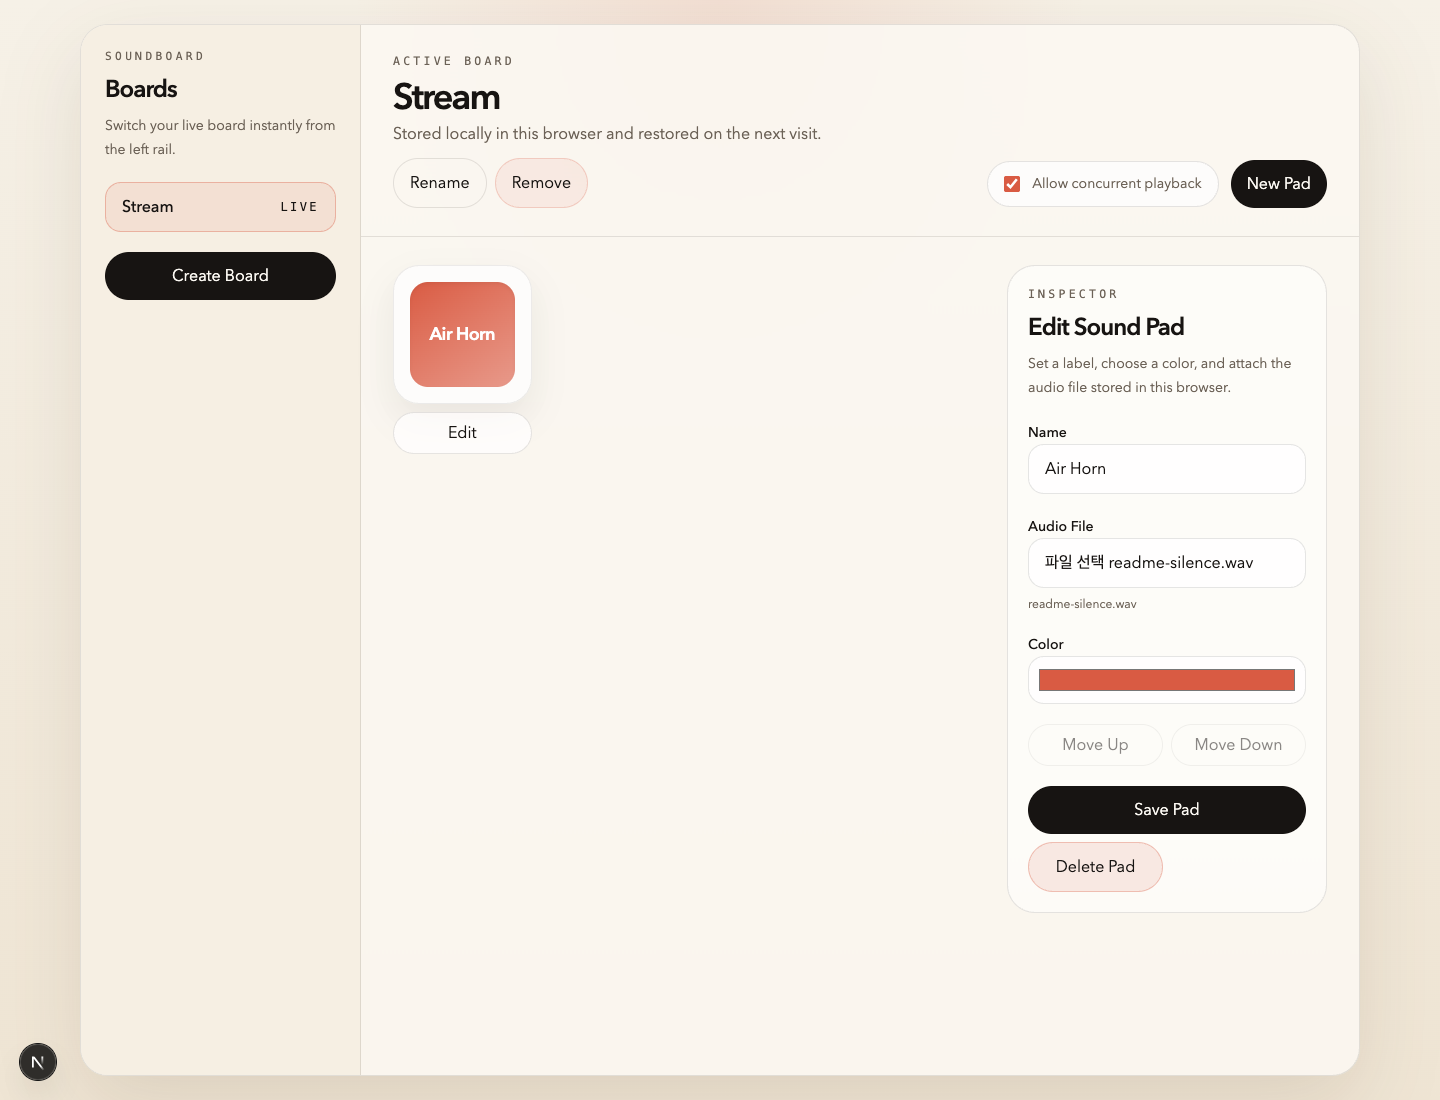
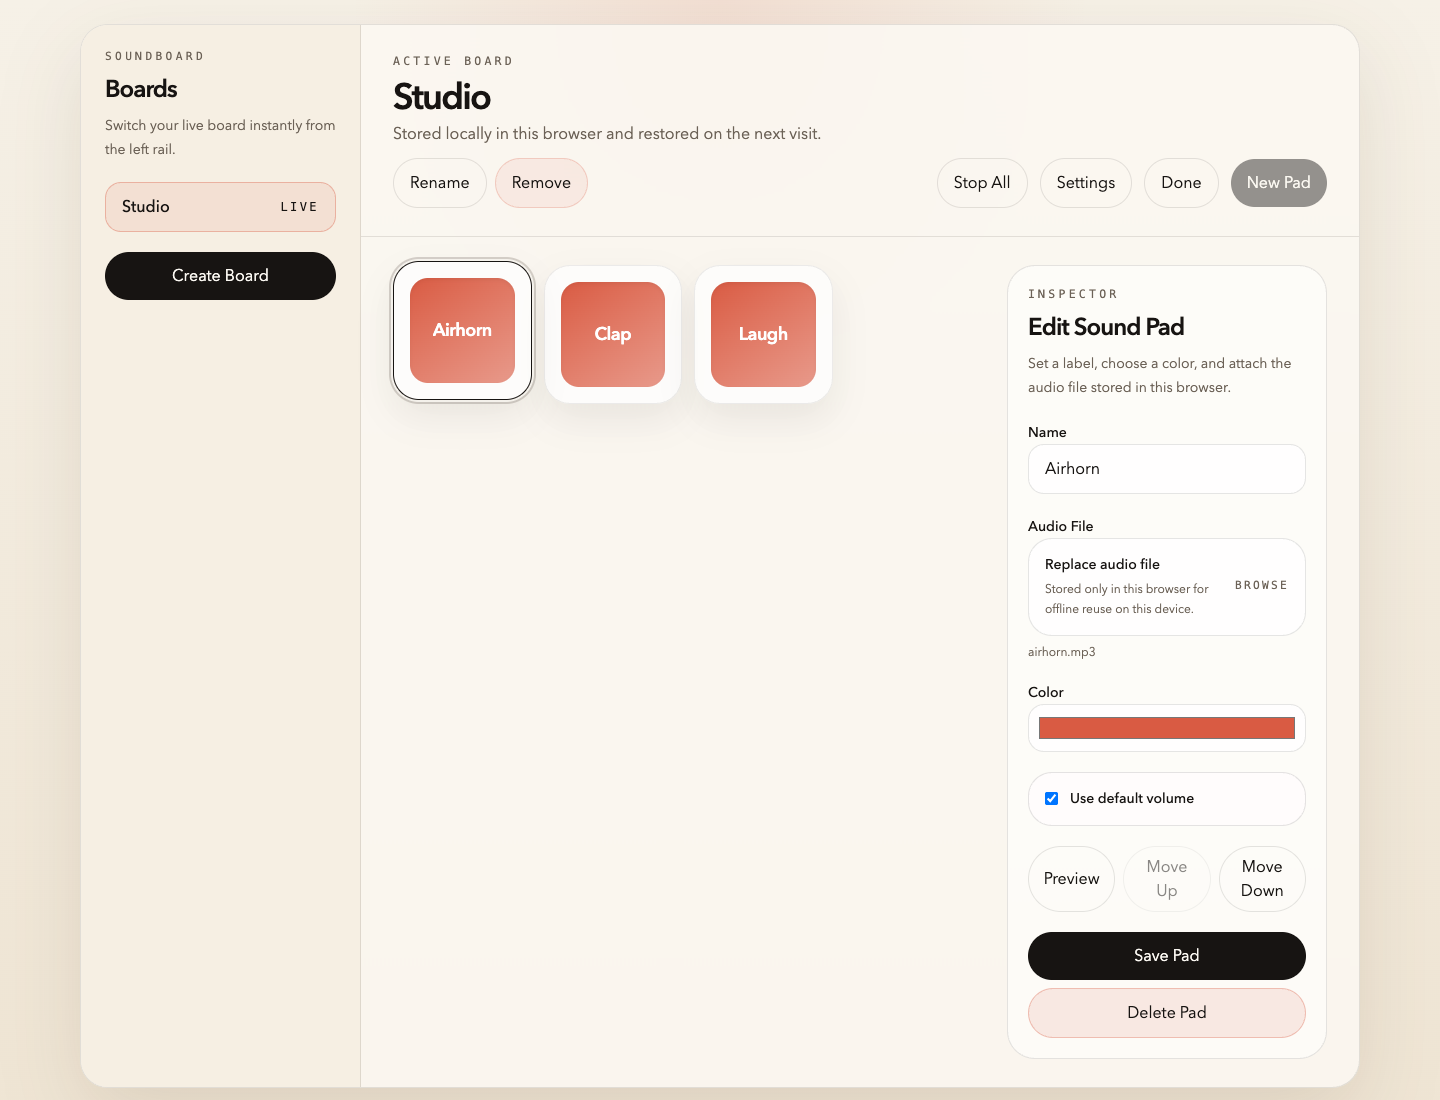
docs: refresh architecture and README assets

diff --git a/docs/architecture.md b/docs/architecture.md
@@ -13,12 +13,13 @@ The current application supports:
 - Multiple sound boards
 - Board creation, renaming, and deletion
 - Pad creation, editing, deletion, and manual reordering
-- Desktop corner-label editing affordance plus touch long-press editing
-- Dedicated settings dialog for playback controls
+- Dedicated `Manage Pads` mode for explicit pad selection, editing, and preview
+- Dedicated settings dialog for playback and audio output controls
 - Local audio file uploads stored in-browser
 - Optional concurrent playback
 - Default pad volume plus per-pad volume overrides
 - Optional `Stop All` control for active playback
+- Progressive-enhancement audio output routing and saved preferred device metadata
 - Restoration of the last active board and saved pads on reload
 
 The current scope intentionally excludes:
@@ -110,7 +111,7 @@ Current pad rules:
 
 ## UI Structure
 
-The current UI is organized into three main areas:
+The current UI is organized around four primary surfaces:
 
 - Left sidebar
   - board list
@@ -119,26 +120,33 @@ The current UI is organized into three main areas:
 - Main content area
   - active board header
   - board rename and delete actions
+  - `Stop All`, `Settings`, `Manage Pads`, and `New Pad` actions
   - sound pad grid
-  - desktop hover edit affordance in the pad corner
+  - playback-first pad presentation with selected-pad emphasis during management
 - Settings dialog
   - default pad volume
   - concurrent playback
   - `Stop All` visibility
   - audio output support state
+  - preferred output device selection and reset
 - Inspector panel
-  - pad creation and editing
+  - default create-pad workflow in normal play mode
+  - selection prompt when `Manage Pads` is active without a selected pad
+  - pad editing for the selected pad in `Manage Pads` mode
   - color and audio selection
   - pad-level volume override
-  - reorder and delete controls for existing pads
+  - preview, reorder, and delete controls for existing pads
 
-The inspector is always present. Unsaved pad edits are guarded before switching to another editing target.
+The main workspace keeps the inspector visible beside the grid. Unsaved pad edits are guarded before switching boards, changing modes, or targeting another pad.
 
 Pad interaction rules are intentionally split by intent:
 
-- click or short tap plays the pad
-- desktop editing is exposed through a small top-right edit affordance
-- touch editing uses long press so playback remains the default short tap action
+- in normal play mode, clicking or tapping a pad plays it immediately
+- editing is entered from the header-level `Manage Pads` action rather than from a pad-local affordance
+- in `Manage Pads` mode, the first click selects a pad for editing
+- clicking the selected pad again previews/plays it
+- the inspector also exposes a dedicated `Preview` action while editing an existing pad
+- leaving `Manage Pads` returns the grid to normal playback behavior
 
 ## Playback Model
 

diff --git a/README.md b/README.md
@@ -10,7 +10,7 @@ The project is currently built with Next.js and deployed to Cloudflare Workers t
 - Board creation, inline renaming, and deletion
 - Confirmation before deleting boards that still contain pads
 - Pad creation, editing, deletion, and manual reordering
-- Desktop corner-label editing affordance plus touch long-press editing
+- Dedicated `Manage Pads` mode for explicit pad selection, editing, and preview
 - Dedicated settings dialog for playback behavior and browser output state
 - Default pad volume plus per-pad volume overrides
 - Local audio file upload with browser-side validation
@@ -190,9 +190,11 @@ Pads may also store a pad-specific `volumeOverride` value. When it is `null`, th
 
 Pad interaction currently follows this model:
 
-- clicking or tapping a pad plays it
-- on desktop, editing is exposed through a small top-right `Edit` affordance
-- on touch devices, a long press opens pad editing without playing the sound
+- in normal play mode, clicking or tapping a pad plays it immediately
+- editing is entered from the header-level `Manage Pads` action
+- in `Manage Pads` mode, the first click selects a pad for editing
+- clicking the selected pad again previews or plays it
+- the inspector also exposes a dedicated `Preview` action while editing an existing pad
 
 Browser storage limits still apply. Large or numerous audio files may eventually hit quota limits depending on the browser.
 
